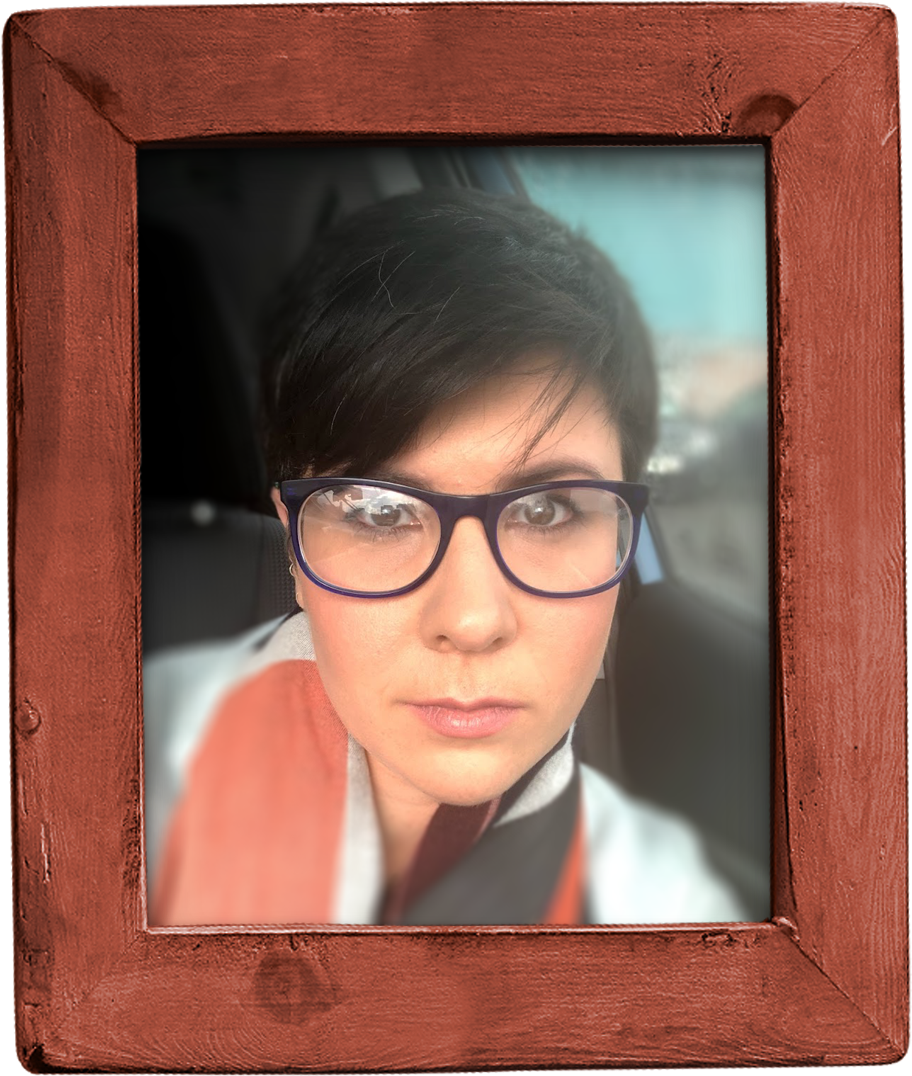
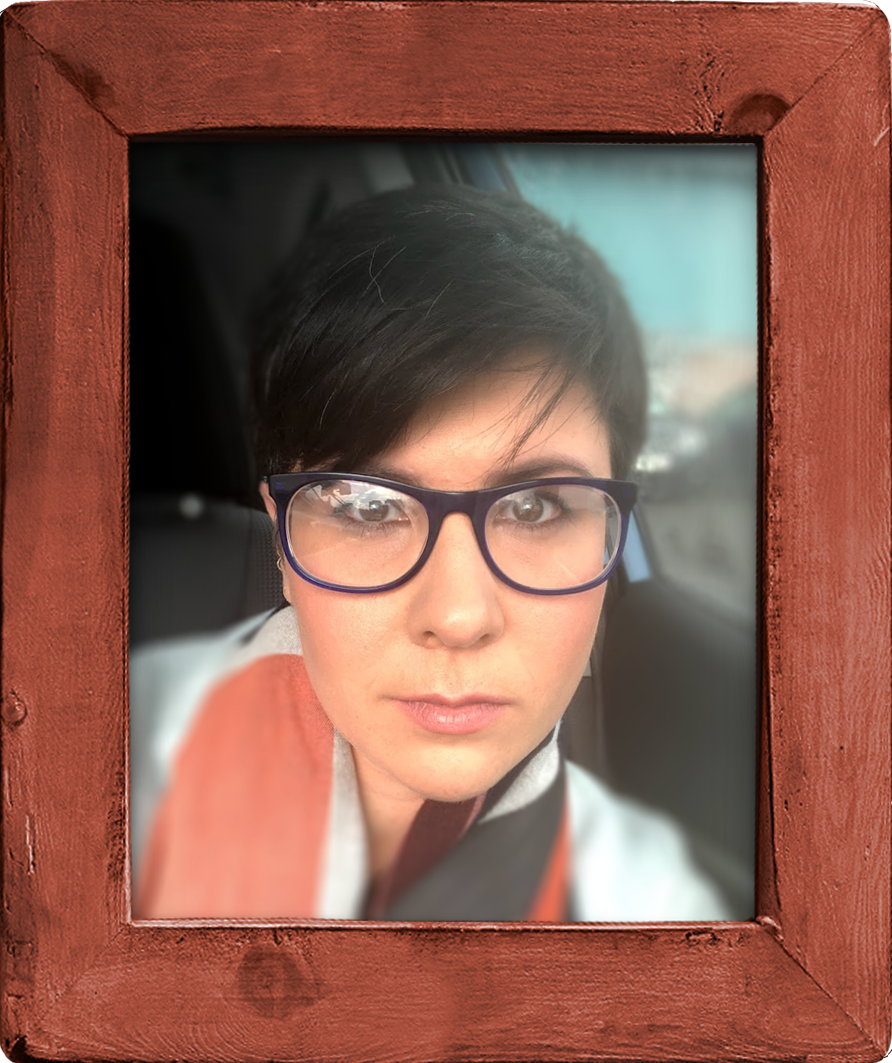
- edited profile pic - added css for animation on hover - added background images parallax scrolling - added new fonts

diff --git a/index.html b/index.html
@@ -5,6 +5,10 @@
   <meta http-equiv="X-UA-Compatible" content="IE=edge">
   <meta name="viewport" content="width=device-width, initial-scale=1.0">
   <!-- CSS only -->
+  <link rel="preconnect" href="https://fonts.googleapis.com">
+<link rel="preconnect" href="https://fonts.gstatic.com" crossorigin>
+<link href="https://fonts.googleapis.com/css2?family=Inknut+Antiqua:wght@300&family=Montserrat&display=swap" rel="stylesheet">
+  <link rel="stylesheet" href="styles.css">
   <link href="https://cdn.jsdelivr.net/npm/bootstrap@5.1.1/dist/css/bootstrap.min.css" rel="stylesheet"
     integrity="sha384-F3w7mX95PdgyTmZZMECAngseQB83DfGTowi0iMjiWaeVhAn4FJkqJByhZMI3AhiU" crossorigin="anonymous">
   <script src="https://kit.fontawesome.com/c1487d9094.js" crossorigin="anonymous"></script>
@@ -13,8 +17,7 @@
 </head>
 
 <body class="container-fluid">
-  <div class="row ">
-    
+  <div class="row">
     <nav class="navbar navbar-expand-lg navbar-dark bg-dark">
       <div class="container-fluid">
         <a class="navbar-brand" href="#">Navbar</a>
@@ -57,27 +60,28 @@
     </nav>
   </div>
 
-  <section class="bio row mt-4 h-100 align-items-center justify-content-center">
-      <img  class="col-md-4 profilepic" src="images/picEdited.png" alt="pic in frame">
-    <div class="col-md-6 offset-md-1 mr-2">
-    <h4>Bio</h4>
-    <p>Hi, I'm Leanne. I am an aspiring full stack developer (and avid crocheter). <br>
-      I have taken an opportunity in the last year to follow my interest in software development and hone my full stack
-      skills.
-      After many eureka moments and just a few exesential crises, I am finally at a stage where I can say that I am a
-      developer. <br>
-      So, let me tell you a little about my journey over the last year:
-    </p>
-  </div>
+  <section class="bio row h-100 align-items-center justify-content-center">
+    <img class=" profile-pic col-md-4 col-lg-3" src="images/picEdited.png" alt="pic in frame">
+    <div class="text-bg col-md-6 offset-md-1 mr-2">
+      
+      <h3>Bio</h3>
+      <p >Hi, I'm Leanne. I am an aspiring full stack developer (and avid crocheter). <br>
+        I have taken an opportunity in the last year to follow my interest in software development and hone my full
+        stack
+        skills.
+        After many eureka moments and just a few exesential crises, I am finally at a stage where I can say that I am a
+        developer. <br>
+        So, let me tell you a little about my journey over the last year:
+      </p>
+    </div>
   </section>
-  <section class="projects">
-    <h4>Projects</h4>
-    <!-- break projects into cards? -->
-    <div class="row">
+  <section class="projects pb-2">
+    <h3>Projects</h3>
+    <div class="row to-do">
       <div class="col-sm-6">
         <div class="card">
           <div class="card-body">
-            <h5 class="card-title">To Do Lists</h5>
+            <h4 class="card-title">To Do Lists</h4>
             <span style="font-size: 2em; color: #DD0031;"><i class="fab fa-angular"></i></span>
             <span style="font-size: 2em; color: #D84924;"><i class="fab fa-html5"></i></span>
             <img src="images/ts.svg" alt="TypeScript logo"
@@ -107,7 +111,7 @@
       <div class="col-sm-6 offset-sm-6">
         <div class="card">
           <div class="card-body">
-            <h5 class="card-title">Twitter Clone</h5>
+            <h4 class="card-title">Twitter Clone</h4>
             <span style="font-size: 2em; color: #DD0031;"><i class="fab fa-angular"></i></span>
             <span style="font-size: 2em; color: #D84924;"><i class="fab fa-html5"></i></span>
             <img src="images/ts.svg" alt="TypeScript logo"
@@ -133,11 +137,10 @@
       <div class="col-sm-6">
         <div class="card">
           <div class="card-body">
-            <h5 class="card-title">Pokedex</h5>
+            <h4 class="card-title">Pokedex</h4>
             <span style="font-size: 2em; color: #DD0031;"><i class="fab fa-angular"></i></span>
             <span style="font-size: 2em; color: #D84924;"><i class="fab fa-html5"></i></span>
-            <img src="images/ts.svg" alt="TypeScript logo"
-              style="height: 2em; width: 28px; vertical-align: text-bottom">
+            <img src="images/ts.svg" alt="TypeScript logo" style="height: 2em; width: 28px; vertical-align: text-bottom">
             <p class="card-text">
             <h6><strong>Features</strong></h6>
             This app is a frontend practice app, using an external API.
@@ -163,7 +166,7 @@
       <div class="col-sm-6 offset-sm-6">
         <div class="card">
           <div class="card-body">
-            <h5 class="card-title">Dutch Treat</h5>
+            <h4 class="card-title">Dutch Treat</h4>
             <span style="font-size: 2em; color: #DD0031;"><i class="fab fa-angular"></i></span>
             <span style="font-size: 2em; color: #D84924;"><i class="fab fa-html5"></i></span>
             <img src="images/ts.svg" alt="TypeScript logo"
@@ -192,15 +195,17 @@
         </div>
       </div>
     </div>
-  </section><br><br>
-  <section>
-    <H4>Skills</H4>
+  </section>
+  <section class="skills h-100">
+    <h3>Skills</h3>
     <!-- language type and Icon, blurb on coming from retail and skills learned through it -->
     <span style="font-size: 2em; color: #DD0031;"><i class="fab fa-angular"></i></span> Angular <br>
     <span style="font-size: 2em; color: #D84924;"><i class="fab fa-html5"></i></span> HTML 5 <br>
     <span style="font-size: 2em; color: #F7E018;"><i class="fab fa-js"></i></span> JavaScript <br>
-    <img src="images/ts.svg" alt="TypeScript logo" style="height: 2em; width: 28px; vertical-align: text-bottom"> TypeScript <br>
-    <img src="images/csh.svg" alt="TypeScript logo" style="height: 2em; width: 28px; vertical-align: text-bottom"> C# Dotnet Core <br>
+    <img src="images/ts.svg" alt="TypeScript logo" style="height: 2em; width: 28px; vertical-align: text-bottom">
+    TypeScript <br>
+    <img src="images/csh.svg" alt="TypeScript logo" style="height: 2em; width: 28px; vertical-align: text-bottom"> C#
+    Dotnet Core <br>
     Entity Framework <br>
     ASPnet Core
   </section>
@@ -213,7 +218,7 @@
   C# Icon by <a href="https://cdnlogo.com/logo/c_760.html">cdnlogo</a> on <a href="https://cdnlogo.com/">cdnlogo.com</a>
   <!-- JavaScript Bundle with Popper -->
   <script src="https://cdn.jsdelivr.net/npm/bootstrap@5.1.1/dist/js/bootstrap.bundle.min.js"
-    integrity="sha384-/bQdsTh/da6pkI1MST/rWKFNjaCP5gBSY4sEBT38Q/9RBh9AH40zEOg7Hlq2THRZ"
+    integrity="sha384-/bQdsTh/da6pkI1MST/rWKFNjaCP5gBSY4sEBT38Q/9RBh9Ah30zEOg7Hlq2THRZ"
     crossorigin="anonymous"></script>
 </body>
 

diff --git a/styles.css b/styles.css
@@ -1,0 +1,68 @@
+.profile-pic {
+    padding-right: 0 !important;
+    padding-left: 0 !important;
+    border-radius: 8px;
+    transition: box-shadow .2s ease-in;
+} 
+
+.profile-pic:hover {
+    
+    box-shadow: -10px 5px 5px grey;
+} 
+
+.bio {
+    background-image: url("images/bio_background.png");
+    min-height: 500px;
+
+    /* Create the parallax scrolling effect */
+    background-attachment: fixed;
+    background-position: bottom;
+    background-repeat: no-repeat;
+    background-size: cover;
+}
+
+.text-bg {
+    background-color: rgba(255, 255, 255, 0.6);
+}
+
+.projects {
+    background-image: url("images/Watercolour2.png");
+    min-height: 500px;
+
+    /* Create the parallax scrolling effect */
+    background-attachment: fixed;
+    background-position: top;
+    background-repeat: no-repeat;
+    background-size: cover;
+}
+
+.skills {
+
+    background-image: url("images/watercolour8.png");
+    min-height: 500px;
+
+    /* Create the parallax scrolling effect */
+    background-attachment: fixed;
+    background-position: bottom;
+    background-repeat: no-repeat;
+    background-size: cover;
+}
+
+.card {
+    border-radius: 8px !important;
+    transition: box-shadow .2s ease-in;
+
+}
+
+.card:hover {
+    
+    box-shadow: -10px 5px 5px rgba(28, 28, 28, 0.6);
+} 
+
+h1, h2, h3, h4, h5, h6 {
+    font-family: 'Inknut Antiqua', serif;
+}
+
+* {
+    font-family: 'Montserrat', sans-serif;
+}
